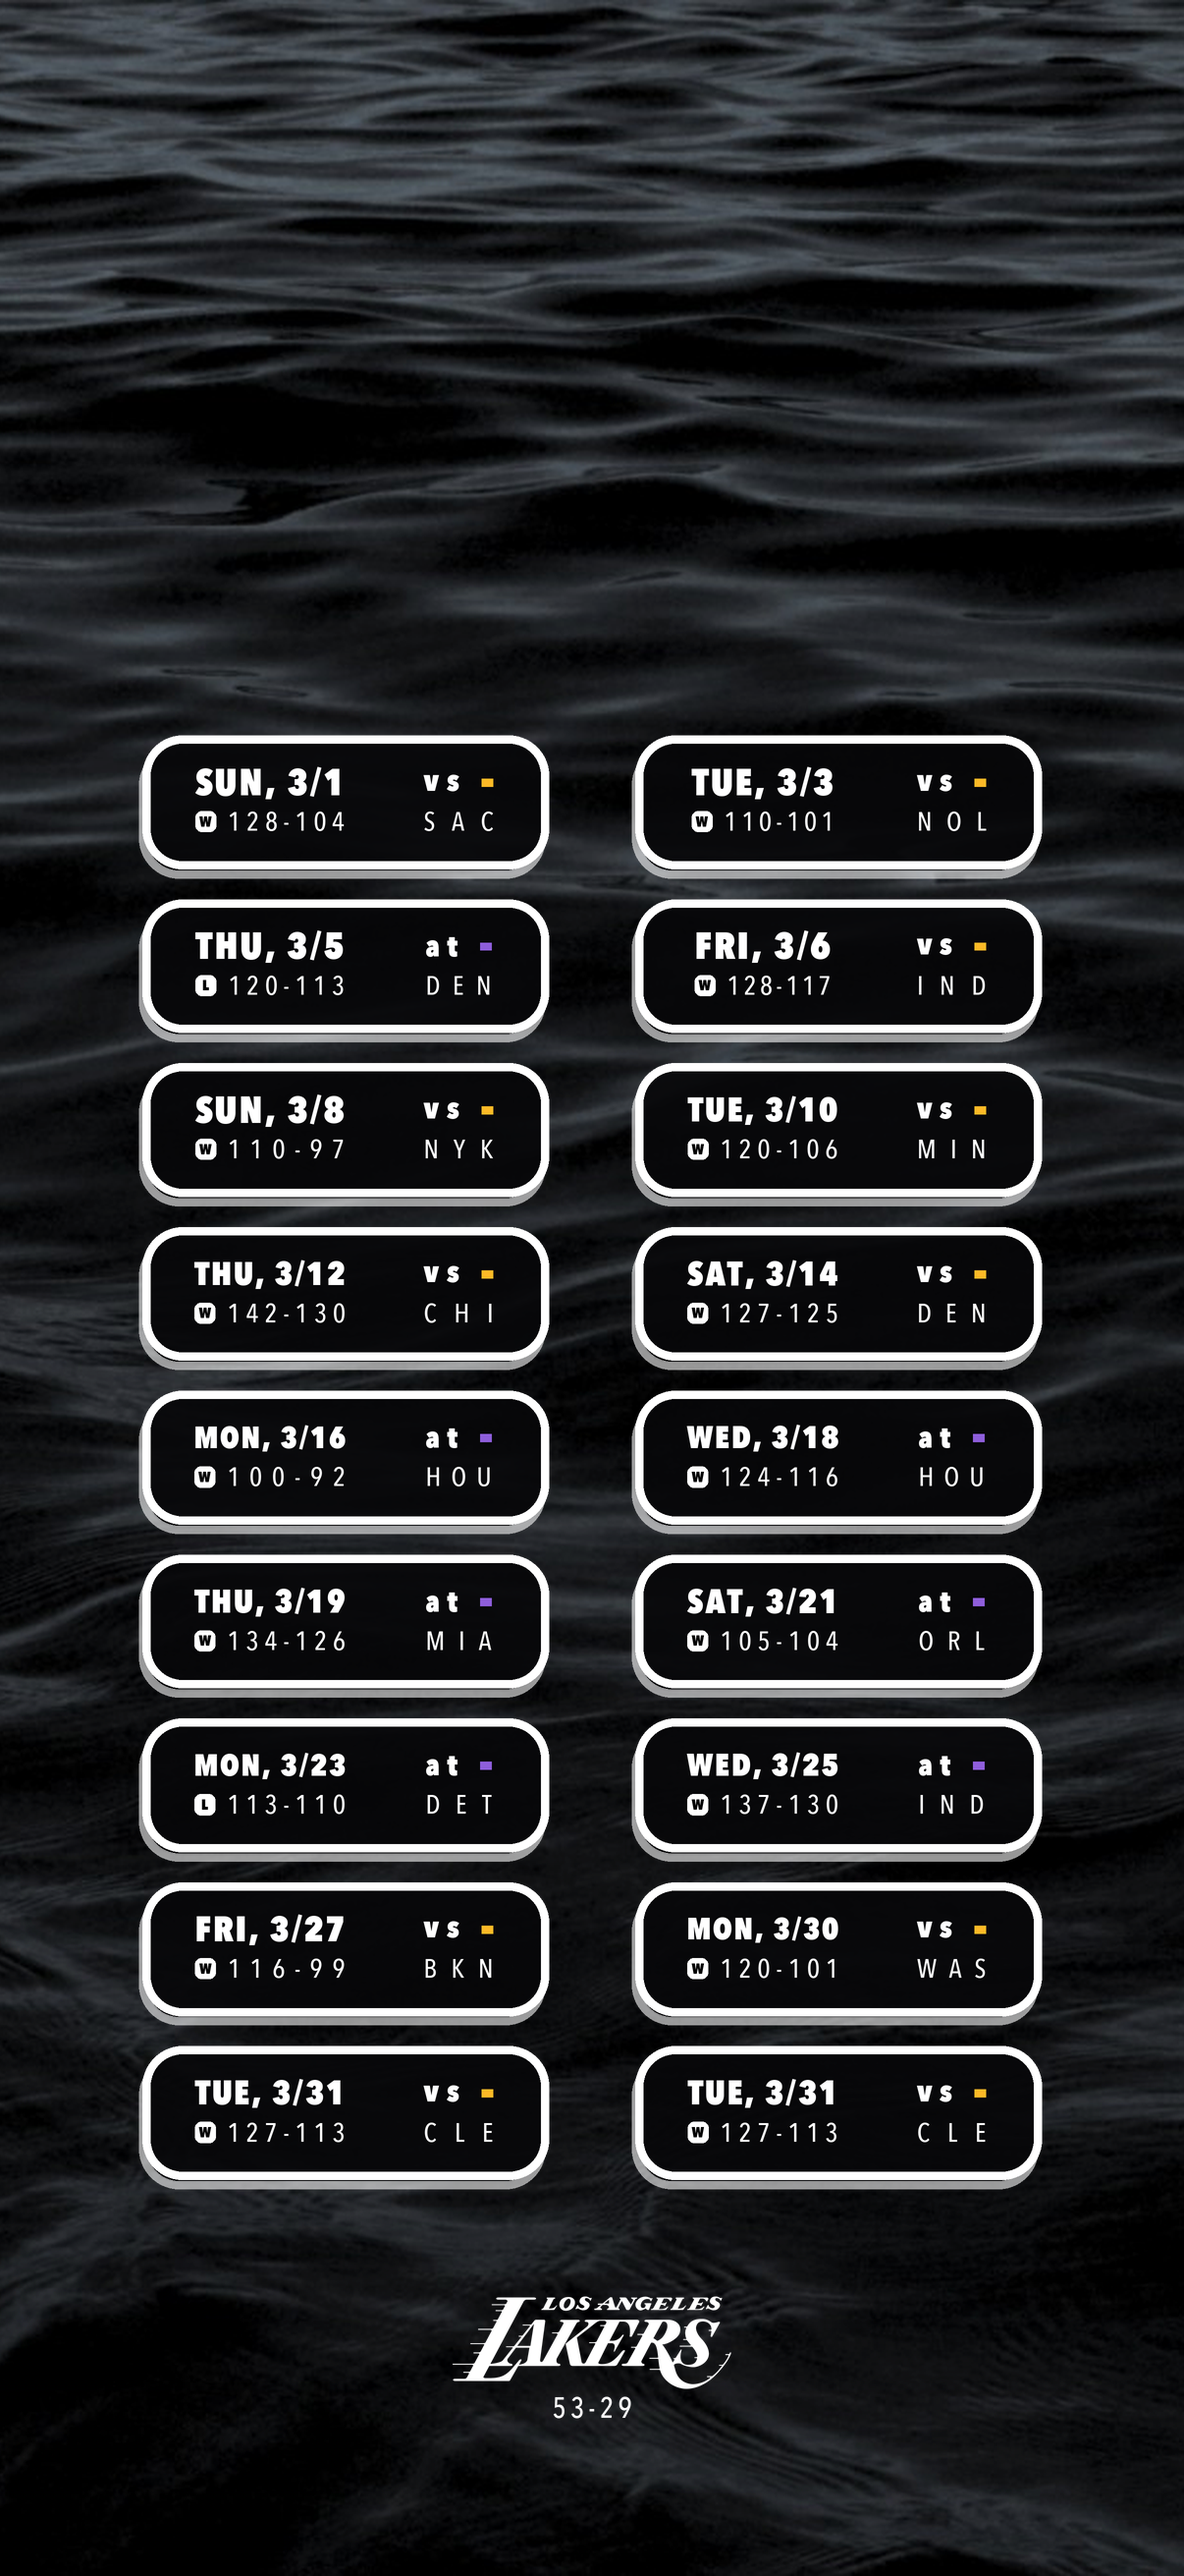
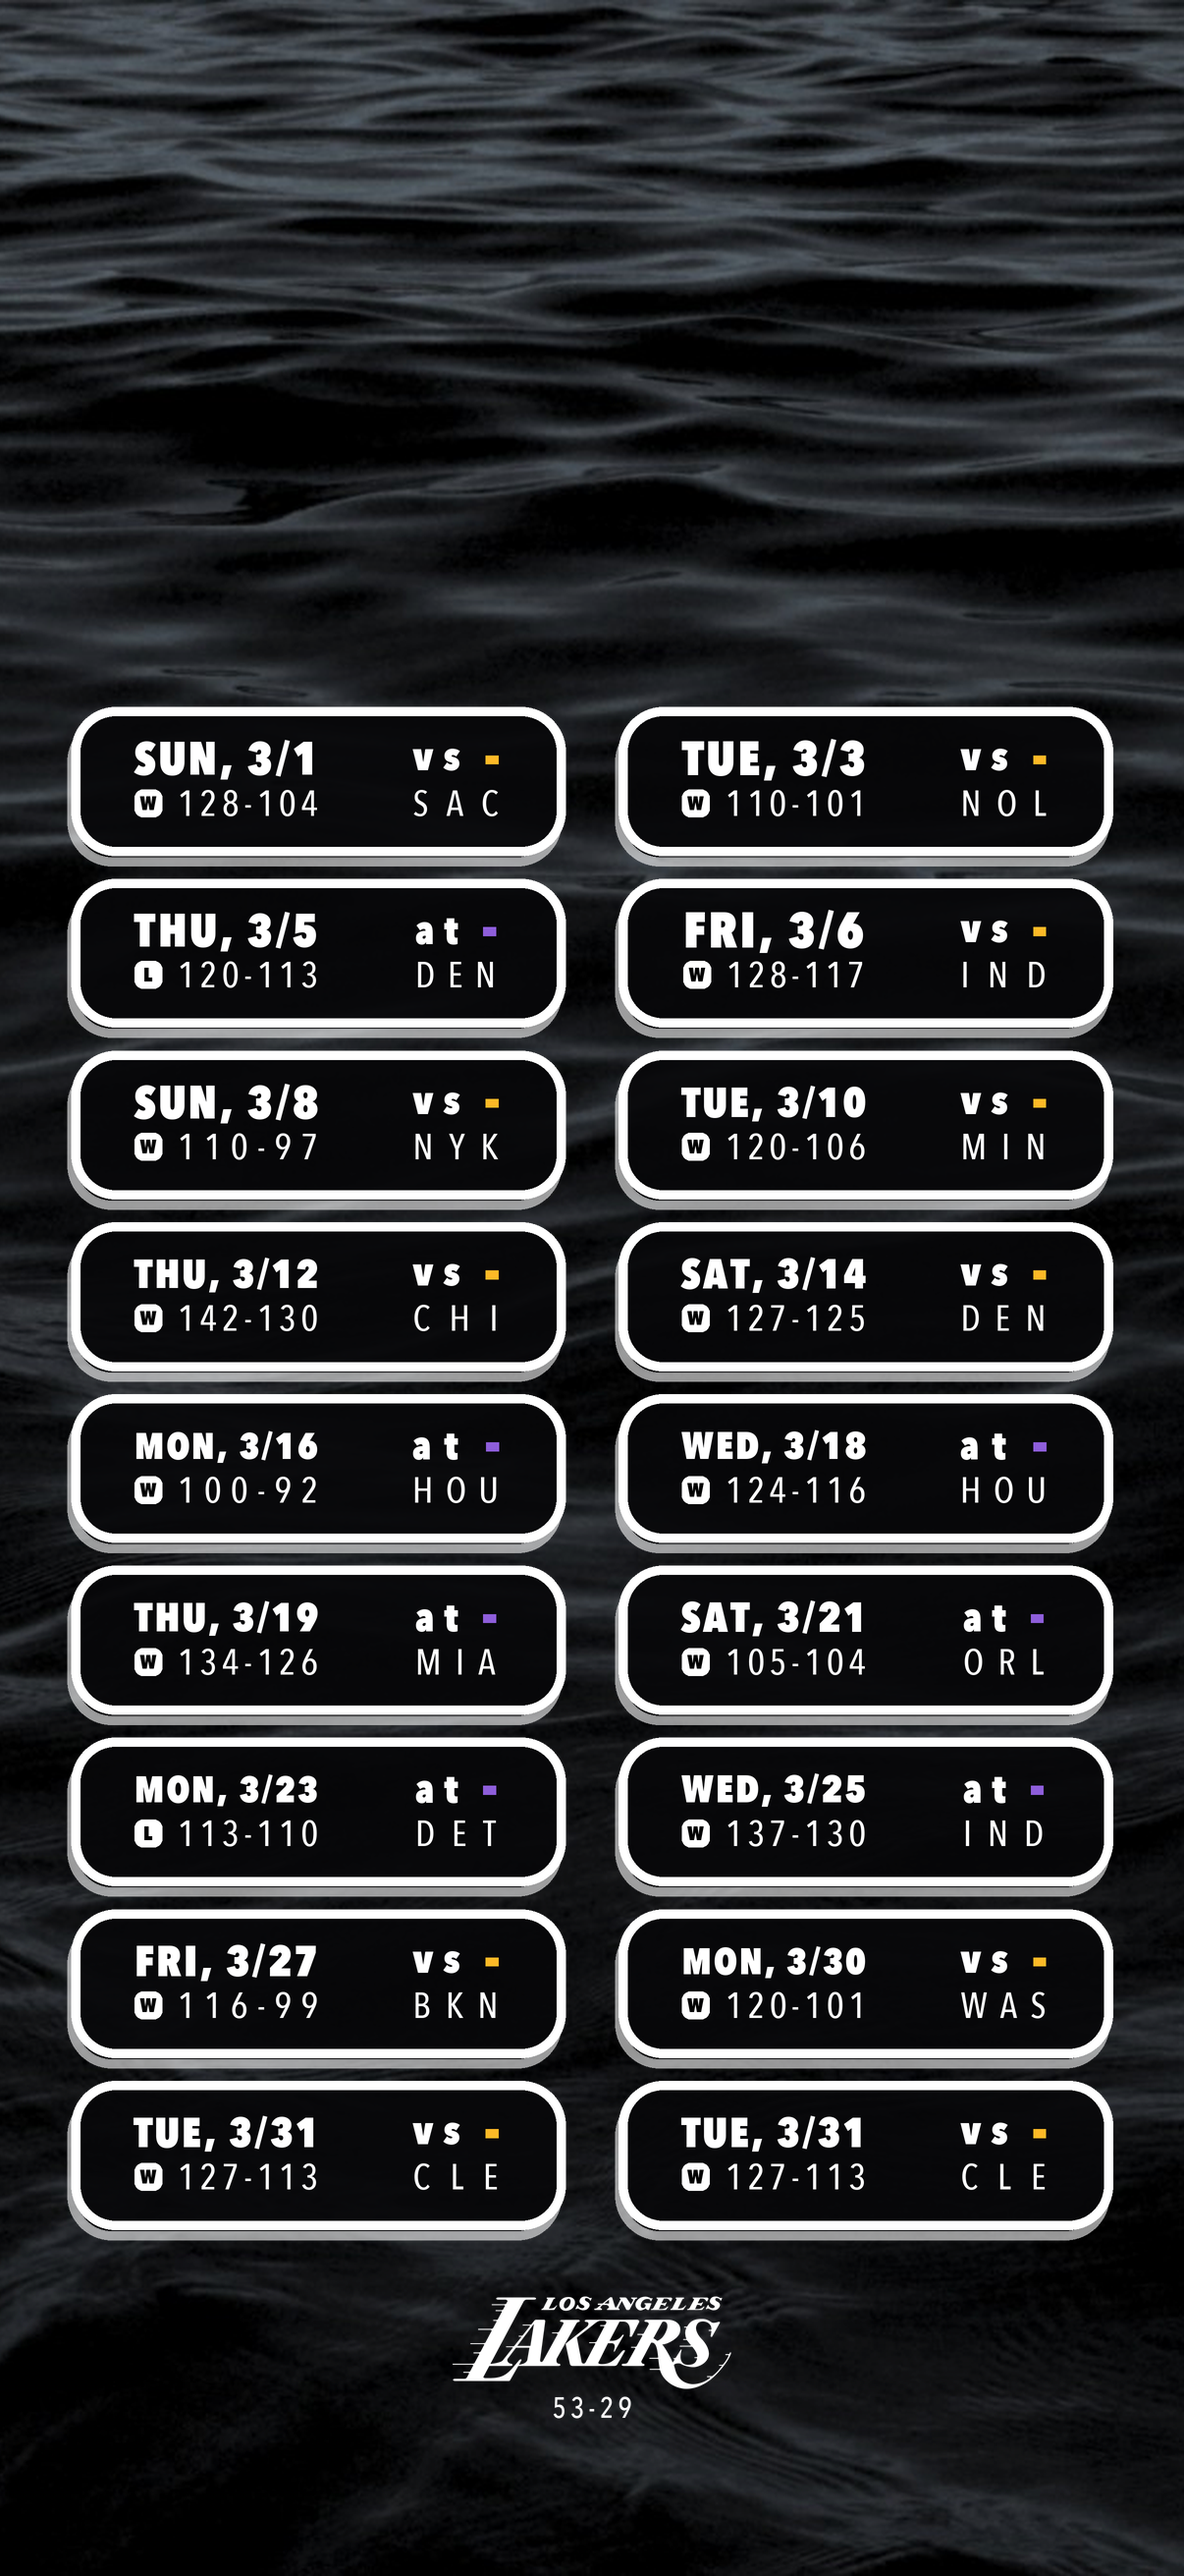
Scale up chips and type for on-phone legibility
The reference mockup's proportions were too small to read at a glance:
wider chips (0.343 -> 0.418 of width), ~20% more type, taller rows, and
higher size caps so light months fill the band instead of floating in it.

Oct (6 games): chip 159 -> 223px, date type 38 -> 75px
Mar (18 games): chip 136 -> 151px, date type 38 -> 51px

Changed region(s): [[0.0307, 0.2471, 0.4909, 0.8959], [0.5216, 0.2471, 0.9511, 0.8959]]

diff --git a/lakerscreen/config.py b/lakerscreen/config.py
@@ -55,15 +55,15 @@ class Layout:
     """
     # Vertical band the two-column grid may occupy (below clock, above footer).
     # Every value below was measured off the reference lock screen at 1206x2622.
-    grid_top: float = 0.2796
-    grid_bottom: float = 0.8520
+    grid_top: float = 0.2700
+    grid_bottom: float = 0.8700
     # Horizontal geometry.
-    side_margin: float = 0.1202         # fraction of width
-    column_gutter: float = 0.0730       # fraction of width
+    side_margin: float = 0.0600         # fraction of width
+    column_gutter: float = 0.0450       # fraction of width
     # Chip proportions.
-    max_pitch: float = 0.0744           # row-to-row spacing cap, of image height
-    chip_height_ratio: float = 0.815    # of the per-row pitch
-    chip_max_height: float = 0.0610     # of image height, caps chips in light months
+    max_pitch: float = 0.1050           # row-to-row spacing cap, of image height
+    chip_height_ratio: float = 0.8650    # of the per-row pitch
+    chip_max_height: float = 0.0850     # of image height, caps chips in light months
     corner_radius_ratio: float = 0.30   # of chip height
     border_ratio: float = 0.063         # of chip height
     stack_dx: float = -0.025            # sticker-stack offset, of chip height
@@ -74,17 +74,17 @@ class Layout:
     zone_gap: float = 0.184             # dead space at the boundary, of chip width
     line1_y: float = 0.355              # vertical centres of the two text lines
     line2_y: float = 0.645
-    date_size: float = 0.2800           # font sizes, of chip height
-    time_size: float = 0.2000
-    vs_size: float = 0.2216
-    team_size: float = 0.2000
+    date_size: float = 0.3350           # font sizes, of chip height
+    time_size: float = 0.2400
+    vs_size: float = 0.2650
+    team_size: float = 0.2400
     dot_w: float = 0.085                # home/away swatch, of chip height
     dot_h: float = 0.058
     dot_gap: float = 0.170              # space between vs/at and the swatch
     date_tracking: float = 0.050        # letter-spacing, as a fraction of font size
     vs_tracking: float = 0.250
     team_tracking: float = 0.344
-    badge_size: float = 0.155           # W/L badge square, of chip height
+    badge_size: float = 0.1850           # W/L badge square, of chip height
     badge_radius: float = 0.300         # corner radius, of badge size
     badge_font: float = 0.720           # letter size inside the badge, of badge size
     result_gap: float = 0.45            # space between the W/L badge and the score
